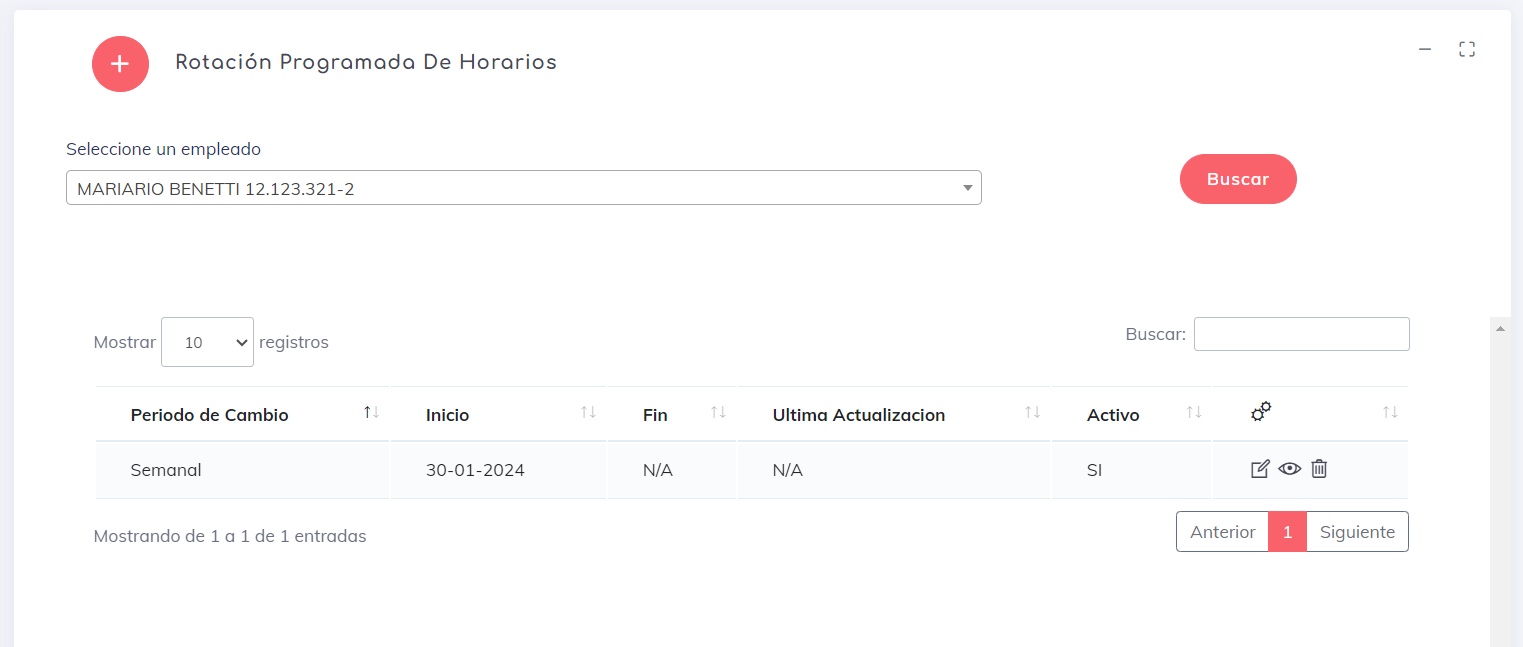
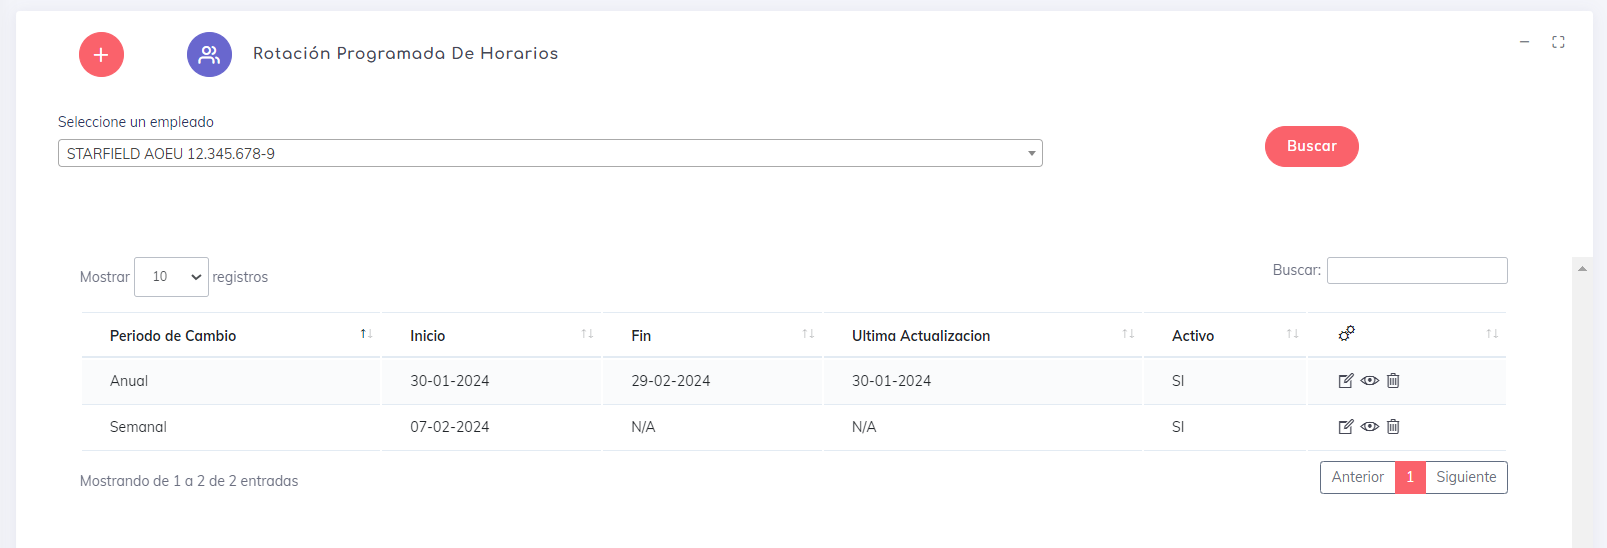
generando documentaciones base para las creaciones de grupos

diff --git a/1.AdmoEmpresas/Horarios/rp.md b/1.AdmoEmpresas/Horarios/rp.md
@@ -3,17 +3,18 @@
 
 En este apartado podremos asignar una rotacion de horarios  para la creacion  de horarios de manera automatica segun sea  requerido y en un orden especifico.
 
-en la parte superior podremos ver nuestro boton de [crear](./rp/Created.md). 
+en la parte superior podremos ver nuestro boton de [crear](./rp/Created.md). ![crearBtn](../img/EmpresasCrear.png)
+y tambie podemos obsevar la imagen de la creacion elementos usando los [grupos de usuarios](./rp/WG.md) ![gbtn](../img/btnWorkerGroups.png)
 
 Luego podremos ver un pequeno selector  que  contienen los empleados. esto para generar un filtro y que la administracion de estos elementos sea pan comido.
 
 una ves seleccionado un usuario podremos ver si tiene alguna rotacion creada y en caso de ser asi tendremos algunas opciones.
 
-la primera opcion es  [editar](./rp/Edit.md) la cual nos permite hacer ajustes a una rotacion ya creada. 
+la primera opcion es  [editar](./rp/Edit.md) la cual nos permite hacer ajustes a una rotacion ya creada. ![editbtn](../img/editbtn.png)
 
     Tener en cuenta que cuando el sistema  genera los nuevos horarios lo  hace en fechas que van a partir de la actual. no lo hace nunca en una fecha del pasado.
     
-Luego esta la opcion de ver [detalles](./rp/Details.md) la cual  nos muestra un resumen de todos los elmentos que componen una rotacion.
+Luego esta la opcion de ver [detalles](./rp/Details.md) la cual  nos muestra un resumen de todos los elmentos que componen una rotacion. ![details](../img/detailsbtn.png)
 
 y por ultimo la  opcion de eliminar o [desactivar](./rp/Delete.md), Tener en  cuenta que en esta seccion  del sistema realmente lo que hace  es desactivar esta  rotacion. la  eliminacion de estos elementos lo hace el sistema por si solo luego de que la  fecha  de vencimiento de la rotacion se encuentre vencida por lo menos  en 7 dias.
 

diff --git a/1.AdmoEmpresas/Horarios/Asignar.md b/1.AdmoEmpresas/Horarios/Asignar.md
@@ -9,6 +9,10 @@ la asignacion de horarios  es bastante simple, al entrar en la pantalla correspo
     ![aHora](../img/asignarH0.png)
 
 
+* Tambien podremos asignar los horarios en periodos y que de manera automatica se asignen.. Para mas informacion dar click [aca](./rp.md)
+
+* y por ultimo la asignacion de horarios por grupos de usuarios.(para crear estos grupos visitar este [enlace he ir al final de la pagina](../Usuarios/index.md). Para asignar un horario en grupo de usuario la vista es similar a la de asignacion individual, con la diferencia de que en ves de crear un usuario, simplemente se selecciona un grupo de usuarios.
+![otraImagn](../img/asignarH0.png)
 
 
 

diff --git a/1.AdmoEmpresas/Horarios/rp/WG.md b/1.AdmoEmpresas/Horarios/rp/WG.md
@@ -1,0 +1,5 @@
+### Asignacion por grupos
+
+Para la asignacion de grupos la vista es esactamete la  mismo que la asignacion normal, con la diferencia de que en ves de seleccionar un empleado se escoje el grupo en especial y ya la asignacion la realiza el software de manera automatica.
+
+![wgAsing](../../img/rpCreated.png)

diff --git a/1.AdmoEmpresas/Marcaciones.md b/1.AdmoEmpresas/Marcaciones.md
@@ -1,0 +1,4 @@
+# Marcacsiones
+
+aca tenemos todas las opciones de las marcaciones... Completar este elemento
+
